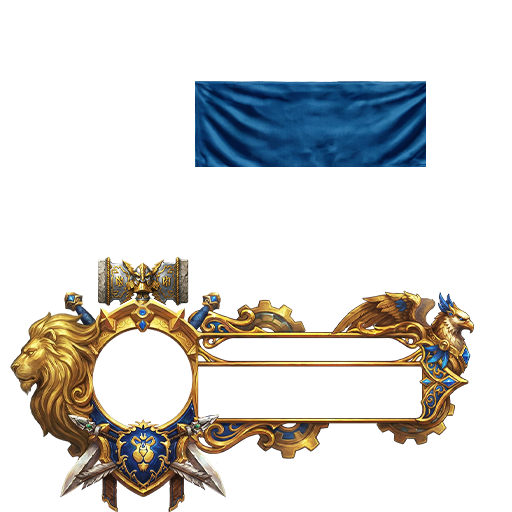
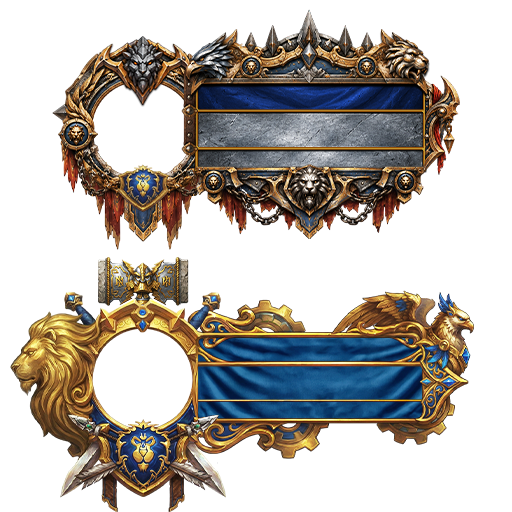
styles: Added new affliction and destruction skins  + Added extra warlock tiers inspired skins  - Removed unused file chore: Bumped versión to 1.4.4

Changed region(s): [[0.0938, 0.0312, 0.9062, 0.5], [0.375, 0.6562, 0.8438, 0.8438]]

diff --git a/README.md b/README.md
@@ -1,7 +1,7 @@
 # EPF Custom Skins
 
 [![License: CC BY-NC-SA 4.0](https://img.shields.io/badge/License-CC%20BY--NC--SA%204.0-blue.svg)](https://creativecommons.org/licenses/by-nc-sa/4.0/)
-[![Version](https://img.shields.io/badge/Version-1.4.3-informational)](ElitePlayerFrame_Enhanced_CustomSkins.toc)
+[![Version](https://img.shields.io/badge/Version-1.4.4-informational)](ElitePlayerFrame_Enhanced_CustomSkins.toc)
 [![WoW](https://img.shields.io/badge/WoW-12.1.0%20(MN)-orange)](https://worldofwarcraft.blizzard.com/)
 [![Lua](https://img.shields.io/badge/Lua-5.x-blue)](https://www.lua.org/)
 

diff --git a/CHANGELOG.md b/CHANGELOG.md
@@ -4,6 +4,13 @@ All notable changes to **EPF Custom Skins** are documented in this file.
 
 The format is based on [Keep a Changelog](https://keepachangelog.com/en/1.1.0/), and this project adheres to [Semantic Versioning](https://semver.org/spec/v2.0.0.html).
 
+
+## [1.4.4] - 2026-09-TBD
+
+### Added
+
+- Added new warlock skins
+
 ## [1.4.3] - 2026-09-01
 
 ### Added
